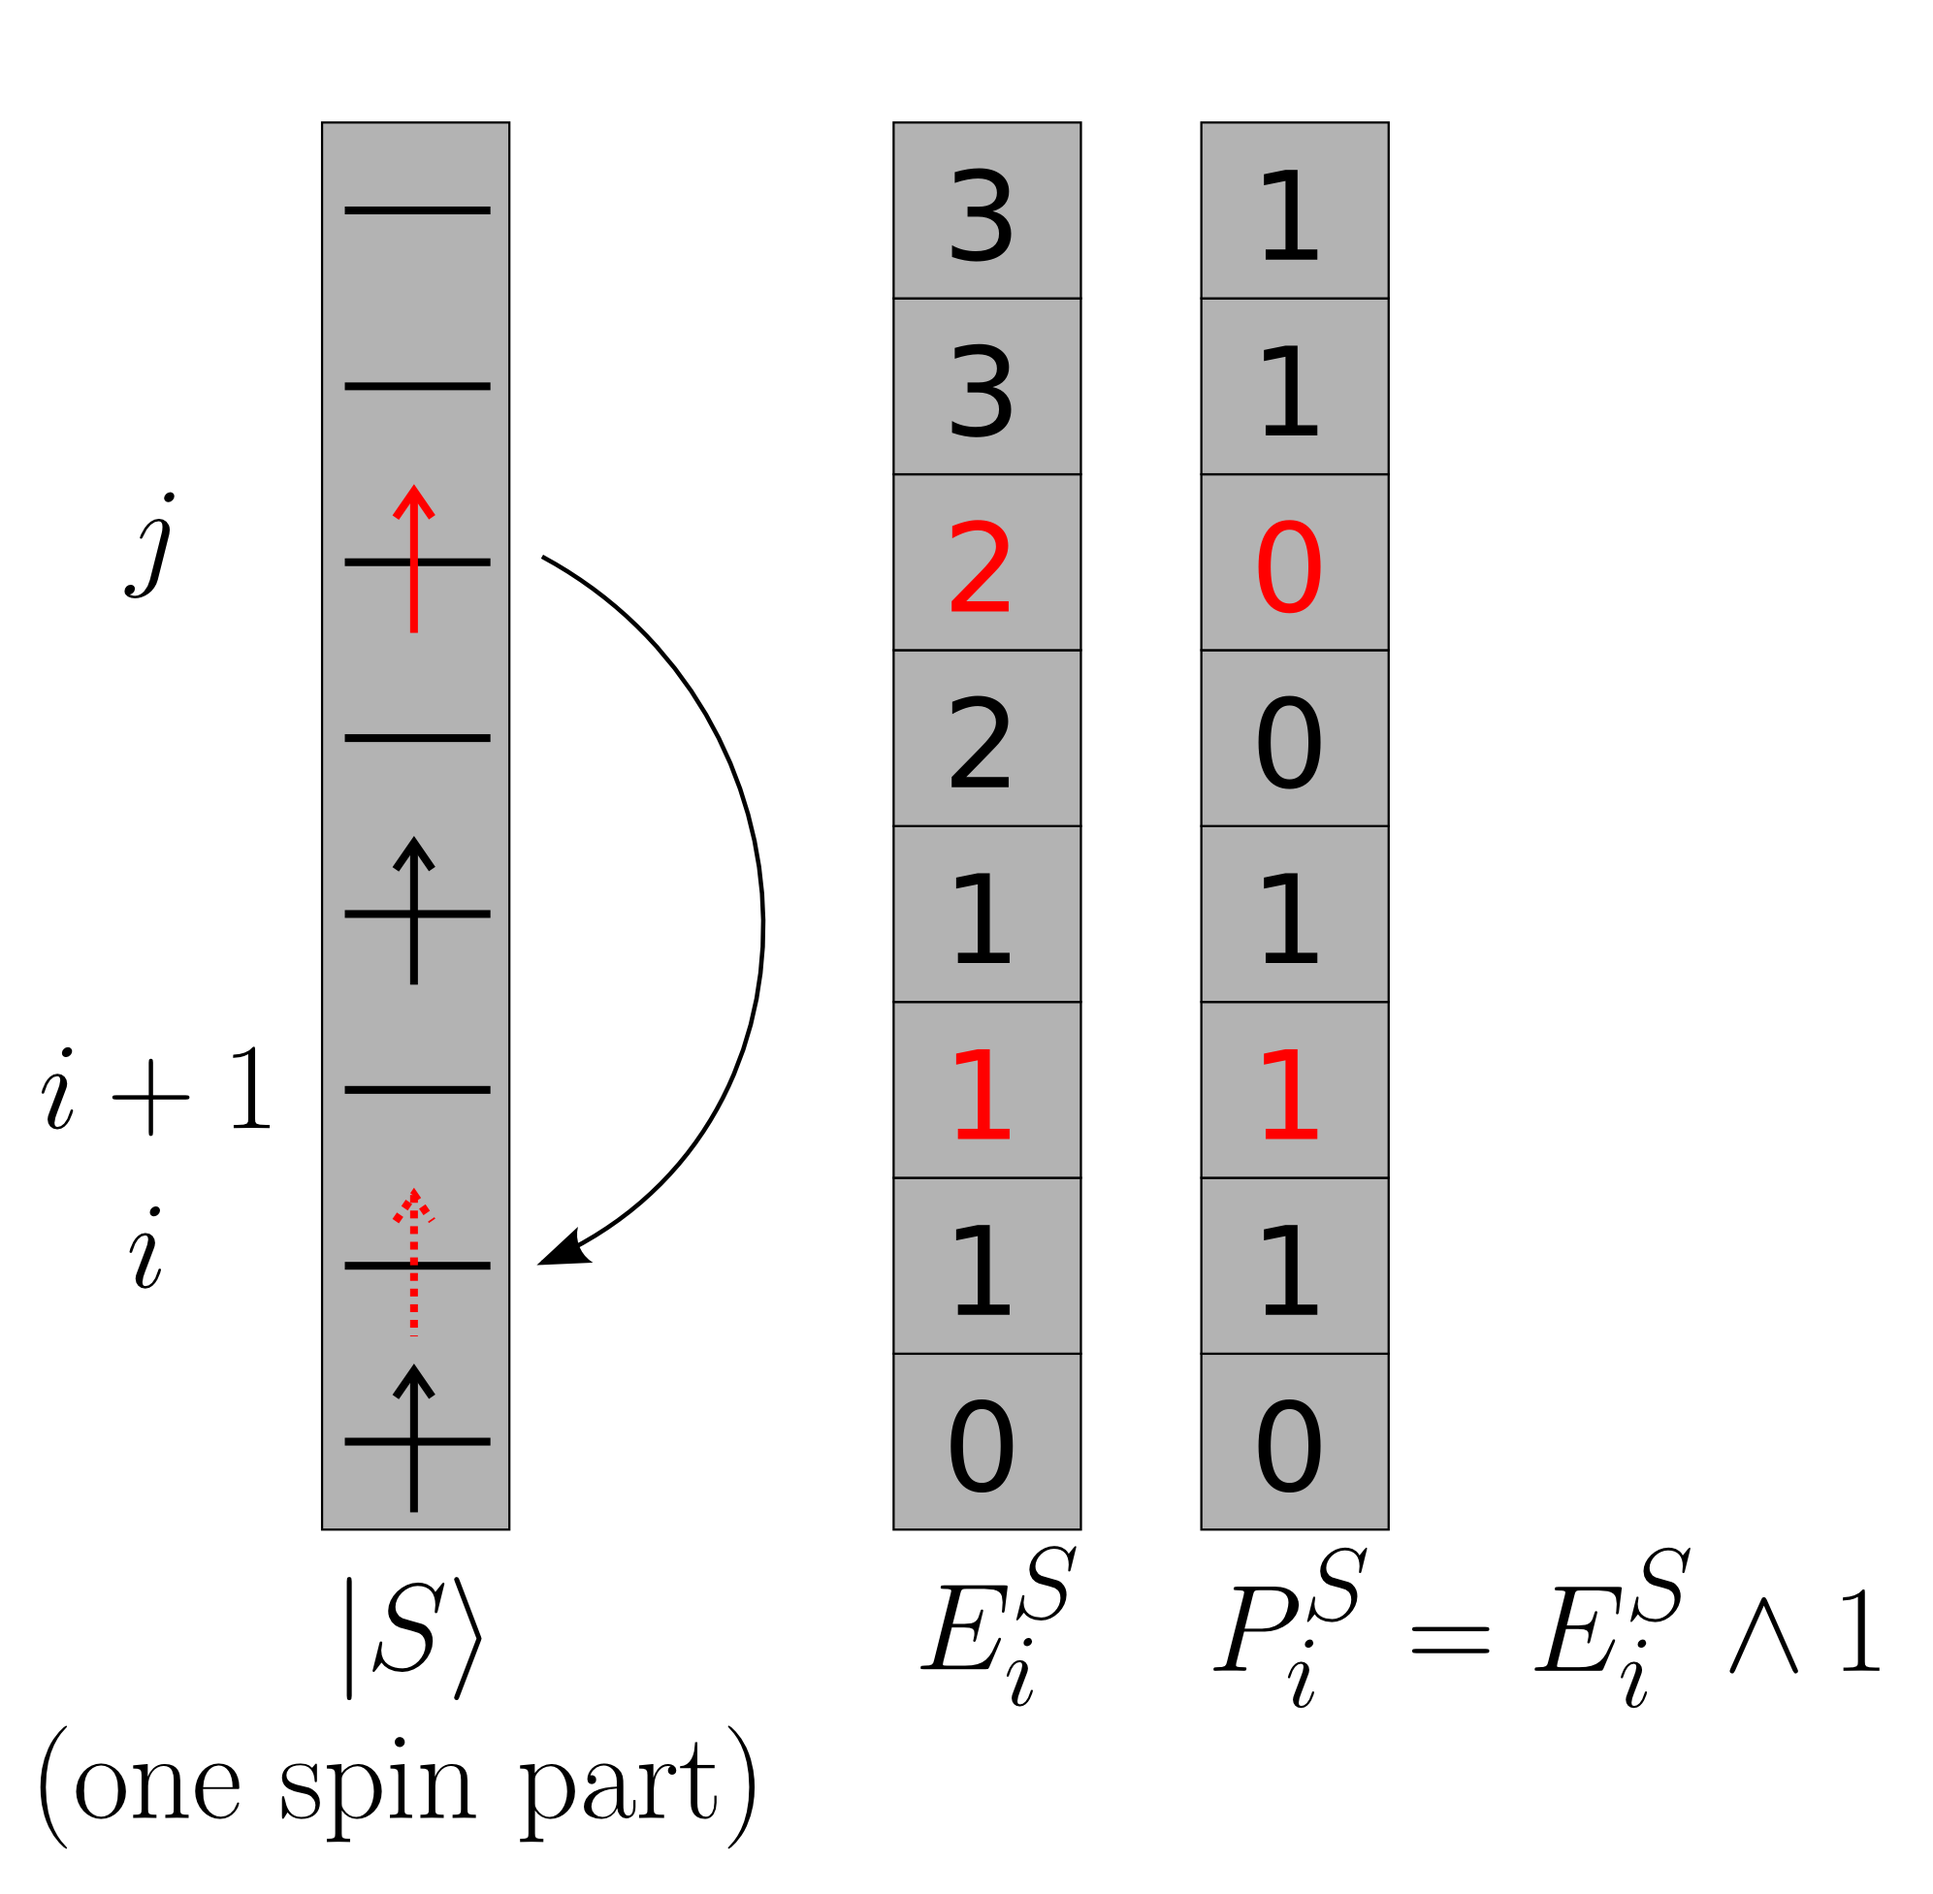
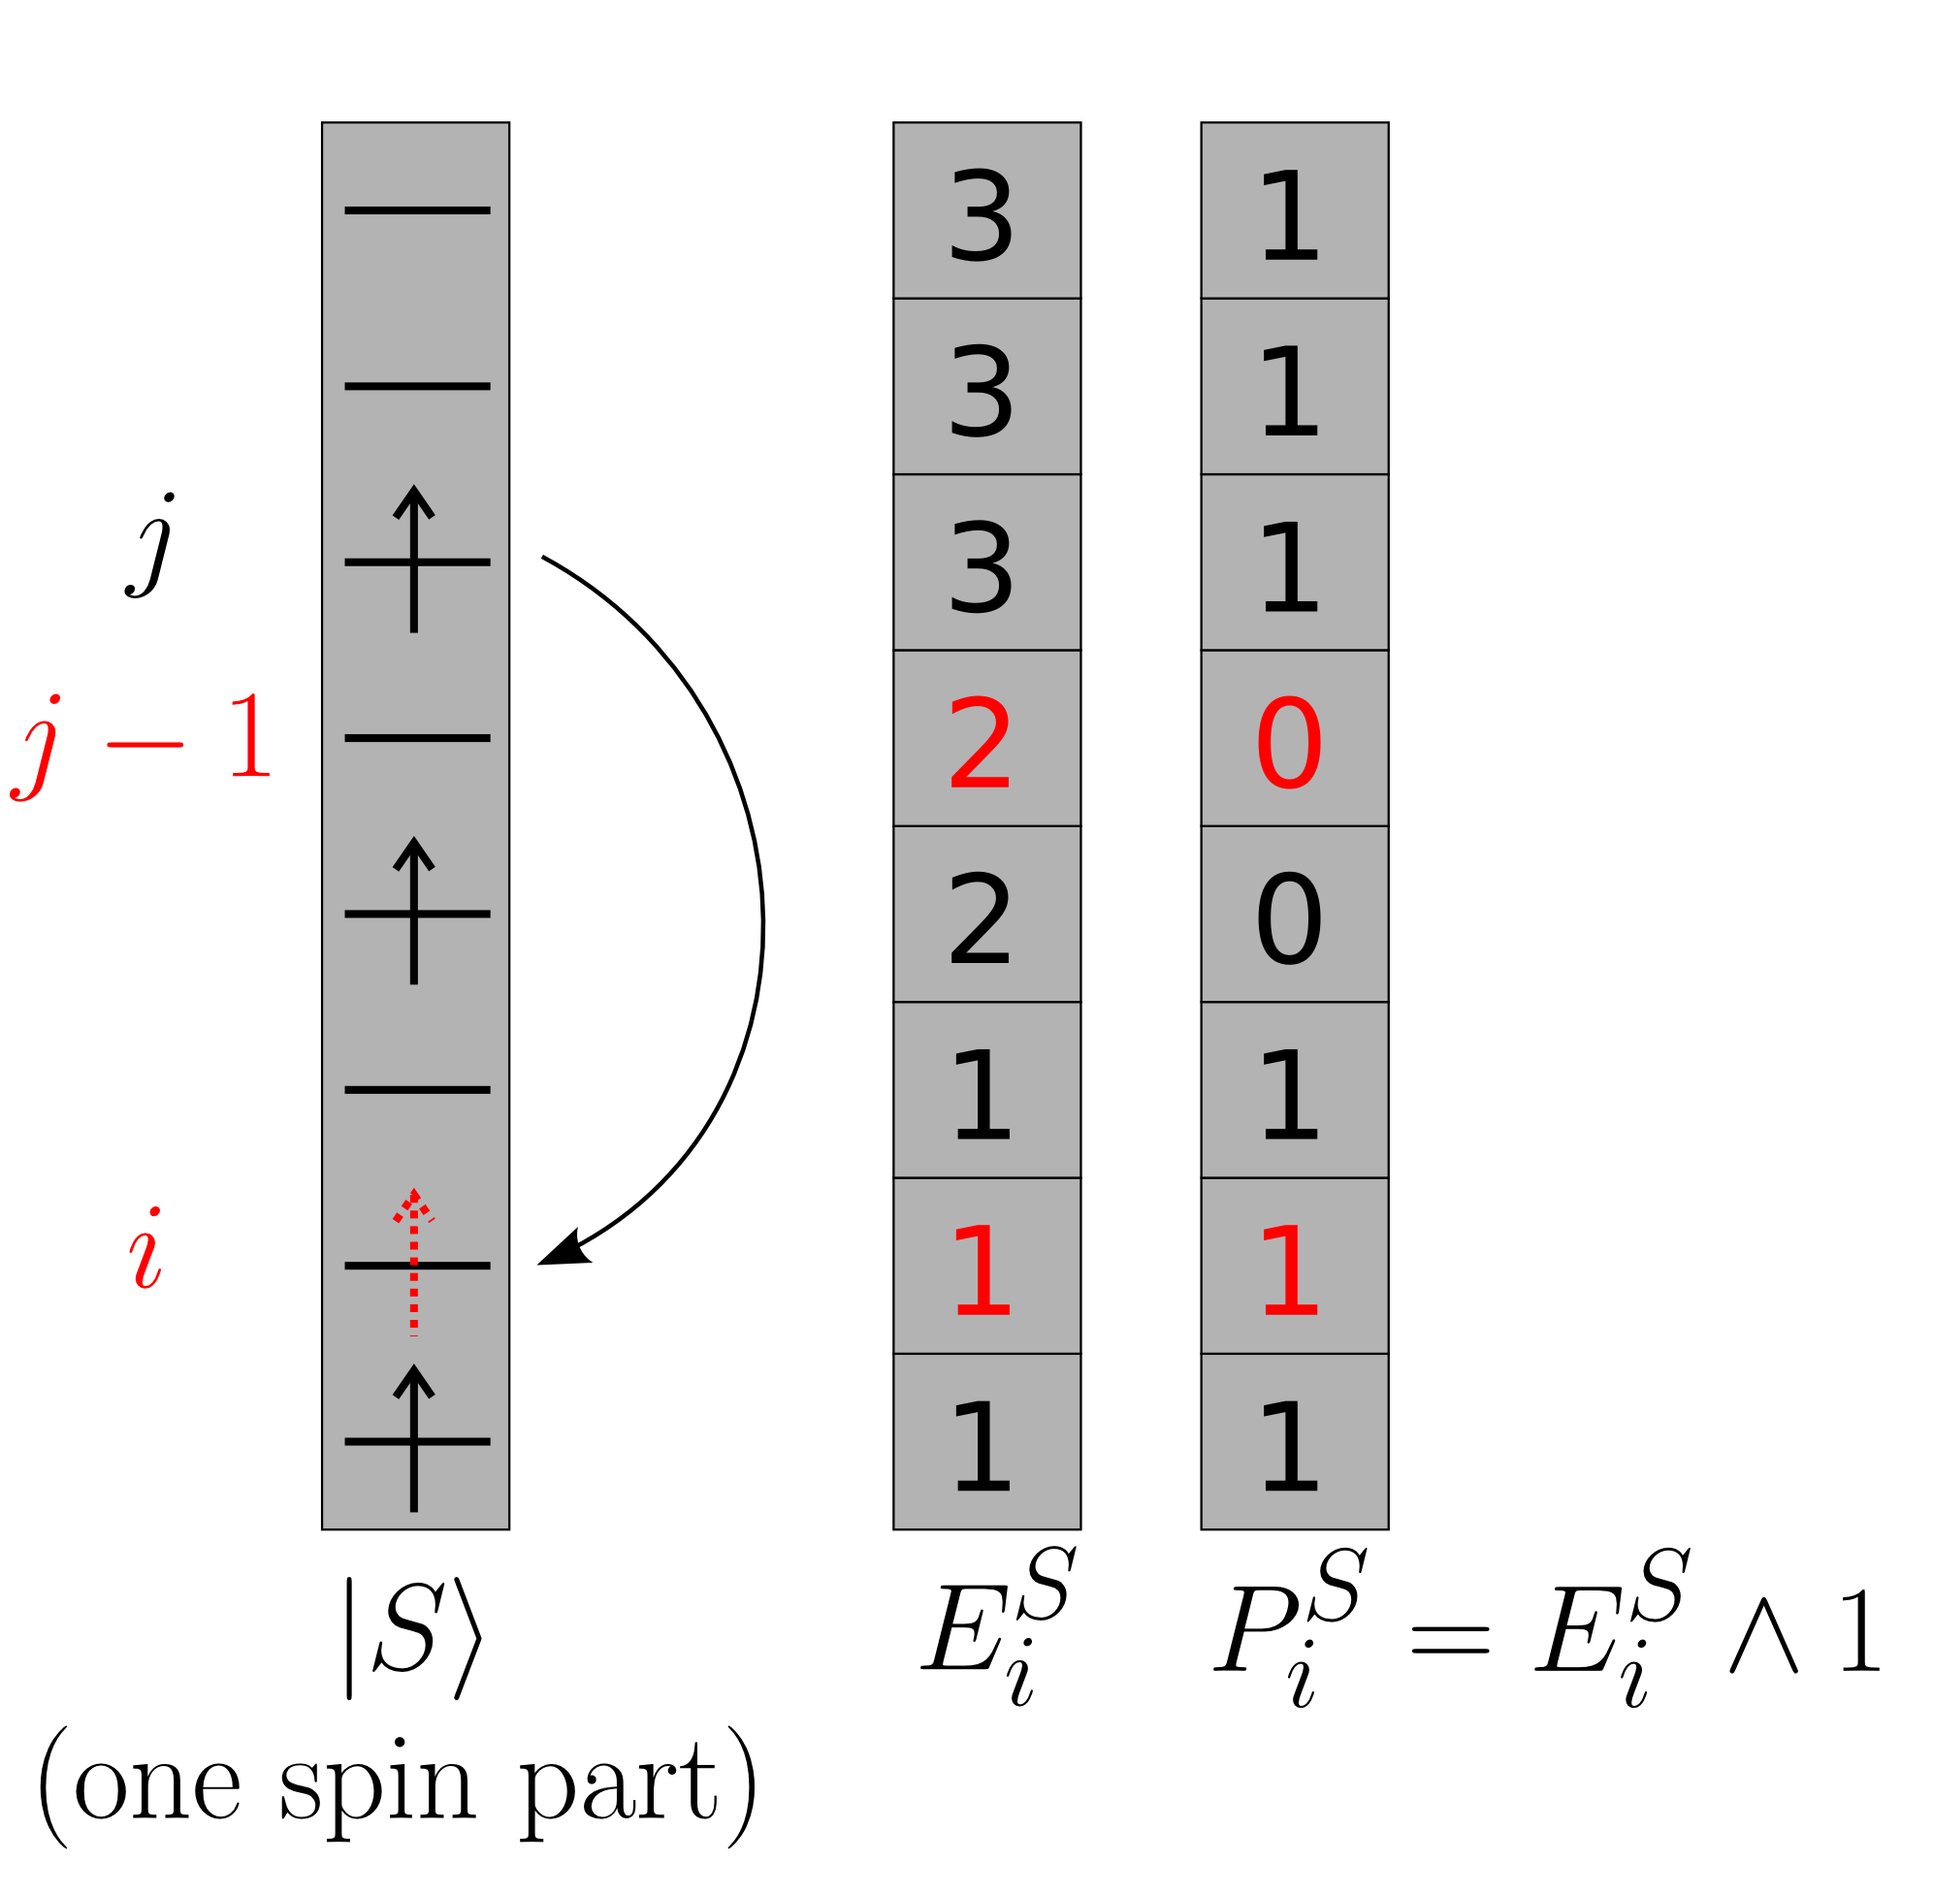
redefined E in phase mask to avoid shift

diff --git a/det_driven.tex b/det_driven.tex
@@ -609,11 +609,11 @@ Using the above formulas and taking into account the internal representation of 
 Algorithm \ref{alg:PHASE_SINGLE} is a general one, efficient for computing the phase factor for arbitrary determinants. However, a phase computation is typically needed every time two determinants are compared, resulting in a vast amount of computational power being consumed. When only this method was used in the \QP, it was not uncommon to find that a large fraction of the computational time was spent in phase computations.
 Advantage can be taken of the fact that, in most cases, the considered determinants aren't actually arbitrary. Usually, the phase computation will be performed repeatedly with the same determinant. For a fairly modest computational price, it is possible to compress the phase information from a particular determinant and make it cheaper to extract. The underlying principle is little more than a cumulative sum. If, for a determinant $\ket{I}$ that is going to be used repeatedly for phase computations, we pre-compute
 \begin{equation}
-E^I_i = \sum_{k=1}^{i-1} \occ{k}{I}
+E^I_i = \sum_{k=1}^{i} \occ{k}{I}
 \end{equation}
 and
 \begin{equation}
-\tilde{N}^I_{ij} = E^I_j - E^I_{i+1}.
+\tilde{N}^I_{ij} = E^I_{j-1} - E^I_{i}.
 \end{equation}
 Now, we can access $N^I_{ij}$ for any $i$ and $j>i$ with no need to loop over $k$ as
 \begin{equation}
@@ -633,17 +633,17 @@ P^I_i = p(E^I_i)
 which is 1 bit of information per spinorbital, as opposed to an integer big enough to accommodate a number of electrons.
 \begin{align}
 E^I_i & = 2 \times  \Big \lfloor \frac{E^I_i}{2} \Big \rfloor + P^I_i \\
-\tilde N^I_{ij} & = E^I_j - E^I_{i+1} \\
- & = 2 \times \qty( \Big \lfloor \frac{E^I_j}{2} \Big \rfloor - \Big \lfloor \frac{E^I_{i+1}}{2} \Big \rfloor ) + P^I_j - P^I_{i+1}
+\tilde N^I_{ij} & = E^I_{j-1} - E^I_{i} \\
+ & = 2 \times \qty( \Big \lfloor \frac{E^I_{j-1}}{2} \Big \rfloor - \Big \lfloor \frac{E^I_{i}}{2} \Big \rfloor ) + P^I_{j-1} - P^I_{i}
 \end{align}
 	    
 In the last equation, $\tilde N^I_{ij}$ is expressed as a sum of three terms. The first one being even by construction, the parity of $\tilde N^I_{ij}$ is the parity of the rest of the sum:
 \begin{equation}
-p(\tilde N^I_{ij})=p(P^I_j - P^I_{i+1})
+p(\tilde N^I_{ij})=p(P^I_{j-1} - P^I_{i})
 \end{equation}
 This can be rewritten in a slightly more efficient way as
 \begin{equation}
-p(\tilde N^I_{ij}) = P^I_j \oplus P^I_{i+1}
+p(\tilde N^I_{ij}) = P^I_{j-1} \oplus P^I_{i}
 \end{equation}
 
 %Note that using $E^I$ instead of $P^I$ would require an extra ADD instruction ( totalement negligeable ? )
@@ -655,7 +655,7 @@ We have used sorted indices $i<j$. But just like for the general algorithm, if w
 
 This however doesn't need to be done explicitly. We can arbitrarily choose $i=i'$ and $j=j'$, and reverse the phase if $j<i$. We effectively have computed $p(N^I_{i'j'})$ instead of $p(N^I_{j'i'})$, and it can be proved they are always of different parity:
 \begin{align}
-\tilde N^{I}_{i' j'} + \tilde N^{I}_{j'i'} & = E^{I}_{j'} - E^I_{i'+1} + E^I_{i'} - E^I_{j'+1} \\
+\tilde N^{I}_{i' j'} + \tilde N^{I}_{j'i'} & = E^{I}_{j'-1} - E^I_{i'} + E^I_{i'-1} - E^I_{j'} \\
 & = -\qty( \occ{j'}{I} + \occ{i'}{I})
 \end{align}
 Because $\hat T_{i'}^{j'} \ket I \neq 0$, we know that $\occ{j'}{I} + \occ{i'}{I} = 1$. 
@@ -688,8 +688,8 @@ This translates to $\tilde N^{I}_{j' i'}$ and $\tilde N^{I}_{i'j'}$ being of dif
 				}
 			}
 		}
-		\tcc{Ignoring the shift will cause all phases to be flipped, which is transparent.}
-		$P = \ishft{P}{1}$ \;
+		%\tcc{Ignoring the shift will cause all phases to be flipped, which is transparent.}
+		%$P = \ishft{P}{1}$ \;
 		\KwRet{$P$} \;
 		}
 \end{algorithm}
@@ -784,15 +784,17 @@ P^3_i = p \left (\sum_{j=max(i-7,0)}^{i} P_j^0 \right )
 \item
 etc...
 \end{enumerate}
-For a 64-bit integer we have to go to $P^6$.
+For a 64-bit integer we have to go to 
 \begin{equation}
 P^6_{i<64} = p \left (\sum_{j=0}^{i} P_j^0 \right )
 \end{equation}
-The phase mask as described is
-\begin{equation}
-P = \ISHFT{P^6}{1} \; ;\; P_i = p \left (\sum_{j=0}^{i-1} P_j^0 \right )
-\end{equation}
-but for convenience, the $\text{\texttt{ISHFT}}$ may be omitted. Because in a feasible excitation $\hat T_i^j$ it is known exactly one of $i$ and $j$ is occupied, using $P^6$ directly as the phase mask will result in the computed phases to be systematically flipped, which is transparent. Alternatively, the return value of algorithm \ref{alg:PHASE_FROM_PHASEMASK} can be flipped if used with an ``unshifted'' phase mask.
+which is the definiton of a phase mask (here indexed from $0$).
+
+%The phase mask as described is
+%\begin{equation}
+%P = \ISHFT{P^6}{1} \; ;\; P_i = p \left (\sum_{j=0}^{i-1} P_j^0 \right )
+%\end{equation}
+%but for convenience, the $\text{\texttt{ISHFT}}$ may be omitted. Because in a feasible excitation $\hat T_i^j$ it is known exactly one of $i$ and $j$ is occupied, using $P^6$ directly as the phase mask will result in the computed phases to be systematically flipped, which is transparent. Alternatively, the return value of algorithm \ref{alg:PHASE_FROM_PHASEMASK} can be flipped if used with an ``unshifted'' phase mask.
 
 
 
